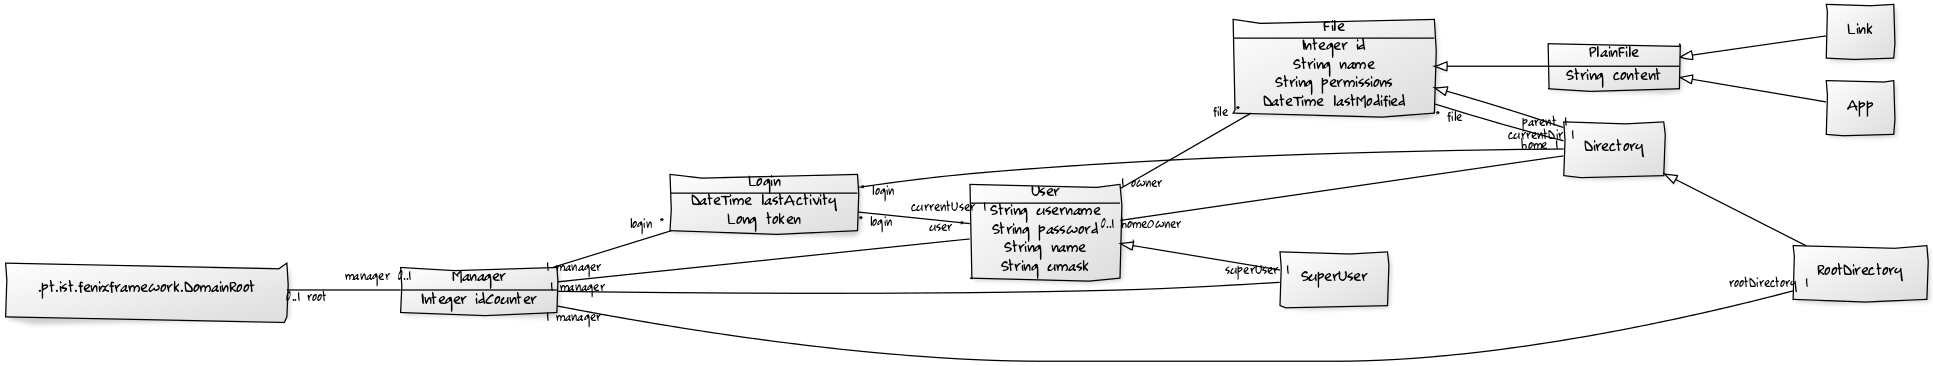
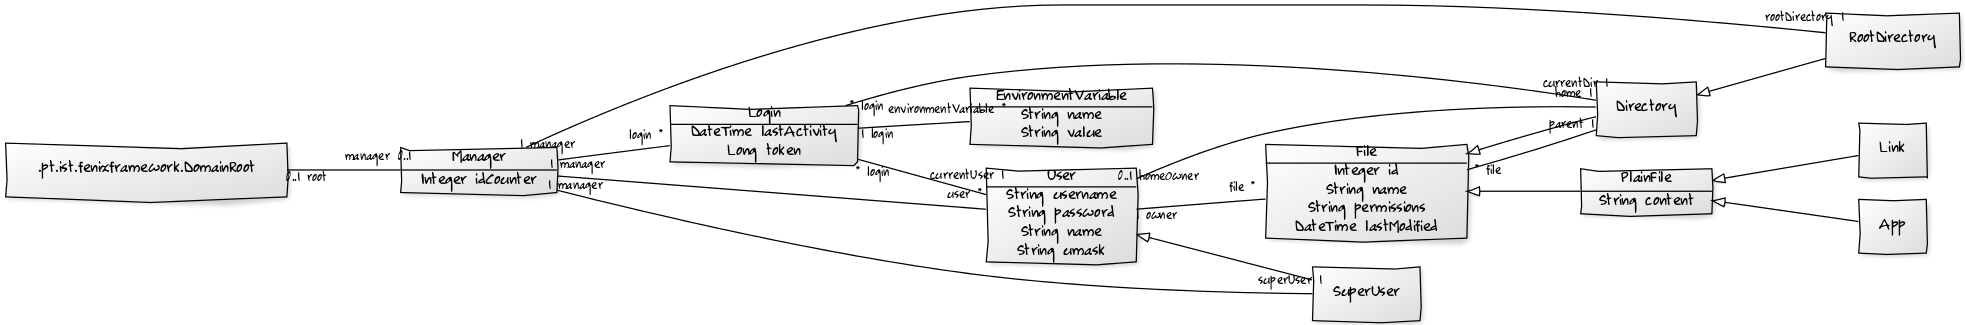
closes #67; add envoirment variables to Login

diff --git a/src/main/java/pt/tecnico/myDrive/domain/Login.java b/src/main/java/pt/tecnico/myDrive/domain/Login.java
@@ -19,13 +19,14 @@ public class Login extends Login_Base {
     		token = new BigInteger(64, new Random()).longValue();
     	}
     	super.setToken(token);
-    	this.setLastActivity(new DateTime());
+    	super.setLastActivity(new DateTime());
     	super.setManager(Manager.getInstance());
     	super.setCurrentUser(Manager.getInstance().fetchUser(username, password));
     	this.setCurrentDir(Manager.getInstance().fetchUser(username, password).getHome());
     }
     
-    private void validateAccount(String username, String password) {
+
+	private void validateAccount(String username, String password) {
     	User user = Manager.getInstance().fetchUser(username, password);
     	if ( user == null ) {
     		throw new InvalidUsernameOrPasswordException();
@@ -51,6 +52,13 @@ public class Login extends Login_Base {
     public void setCurrentUser(User user){
     	throw new AccessDeniedToManipulateLoginException();
     }
+    
+    @Override
+	public void setLastActivity(DateTime lastActivity) {
+		throw new AccessDeniedToManipulateLoginException();
+	}
+    
+    // TODO refreshLastActivity
     
     public void remove(){
 		super.setManager(null);

diff --git a/src/main/java/pt/tecnico/myDrive/Main.java b/src/main/java/pt/tecnico/myDrive/Main.java
@@ -73,7 +73,6 @@ public class Main {
     	log.trace("currDir = " + login.getCurrentDir().getName());
     	log.trace("token = " + login.getToken() );
     	log.trace("password of David = " + user1.validatePassword("DAVID"));
-    	login.setLastActivity(login.getLastActivity().minusHours(3));
     	
     	new User(Manager.getInstance(), "ddd");
     	Login login2 = new Login("ddd", "ddd");

diff --git a/src/main/java/pt/tecnico/myDrive/domain/EnvironmentVariable.java b/src/main/java/pt/tecnico/myDrive/domain/EnvironmentVariable.java
@@ -1,0 +1,11 @@
+package pt.tecnico.myDrive.domain;
+
+public class EnvironmentVariable extends EnvironmentVariable_Base {
+    
+    public EnvironmentVariable(Login login, String name,String value) {
+    	this.setLogin(login);
+    	this.setName(name);
+    	this.setValue(value);
+    }
+    
+}
